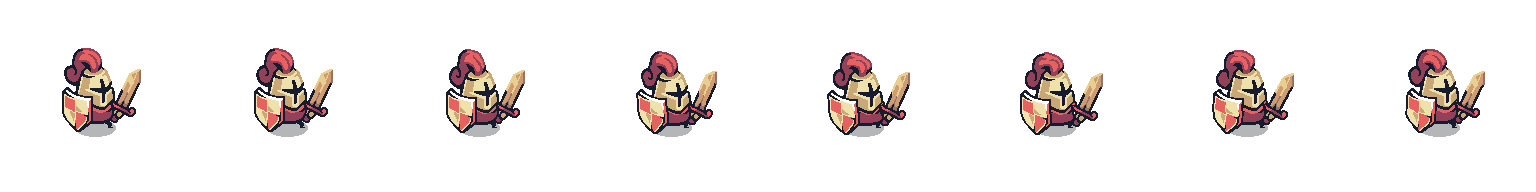
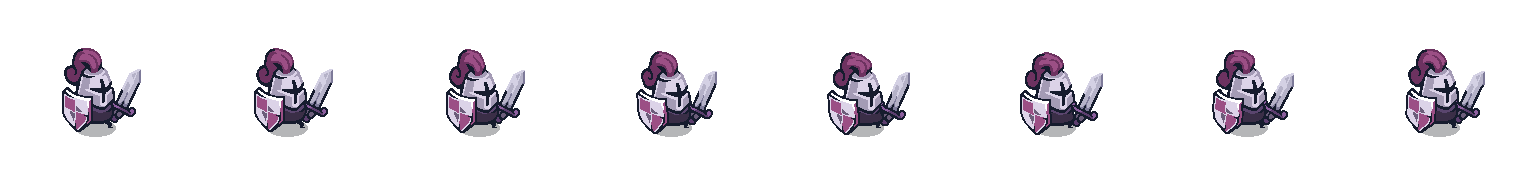
Enemy movement and sprite
Added a chase functionality to the enemy to make it follow the player once they enter the enemy's range. Also modified the idle sprites of the enemy to differentiate it from the player.

diff --git a/Assets/Scripts/EnemyMovement.cs b/Assets/Scripts/EnemyMovement.cs
@@ -1,0 +1,54 @@
+using UnityEngine;
+
+public class EnemyMovement : MonoBehaviour
+{
+    public float speed;
+    private bool isChasing = false;
+    private int facingDirection = -1;
+    private Rigidbody2D rb;
+    private Transform player;
+    // Start is called once before the first execution of Update after the MonoBehaviour is created
+    void Start()
+    {
+        rb = GetComponent<Rigidbody2D>();
+    }
+
+    // Update is called once per frame
+    void Update()
+    {
+        if (isChasing)
+        {
+            if(player.position.x > transform.position.x && facingDirection == -1 || player.position.x < transform.position.x && facingDirection == 1)
+            {
+                Flip();
+            }
+            Vector2 direction = (player.position - transform.position).normalized;
+            rb.linearVelocity = direction * speed;
+        }
+    }
+
+    void Flip()
+    {
+        facingDirection *= -1;
+        transform.localScale = new Vector3(transform.localScale.x * -1, transform.localScale.y, transform.localScale.z);
+    }
+
+    private void OnTriggerEnter2D(Collider2D collision)
+    {
+        if(collision.gameObject.CompareTag("Player"))
+        {
+            if(player == null){
+                player = collision.transform;
+            }
+            isChasing = true;
+        }
+    }
+    private void OnTriggerExit2D(Collider2D collision)
+    {
+        if(collision.gameObject.CompareTag("Player"))
+        {
+            rb.linearVelocity = Vector2.zero;
+            isChasing = false;
+        }
+    }
+}
